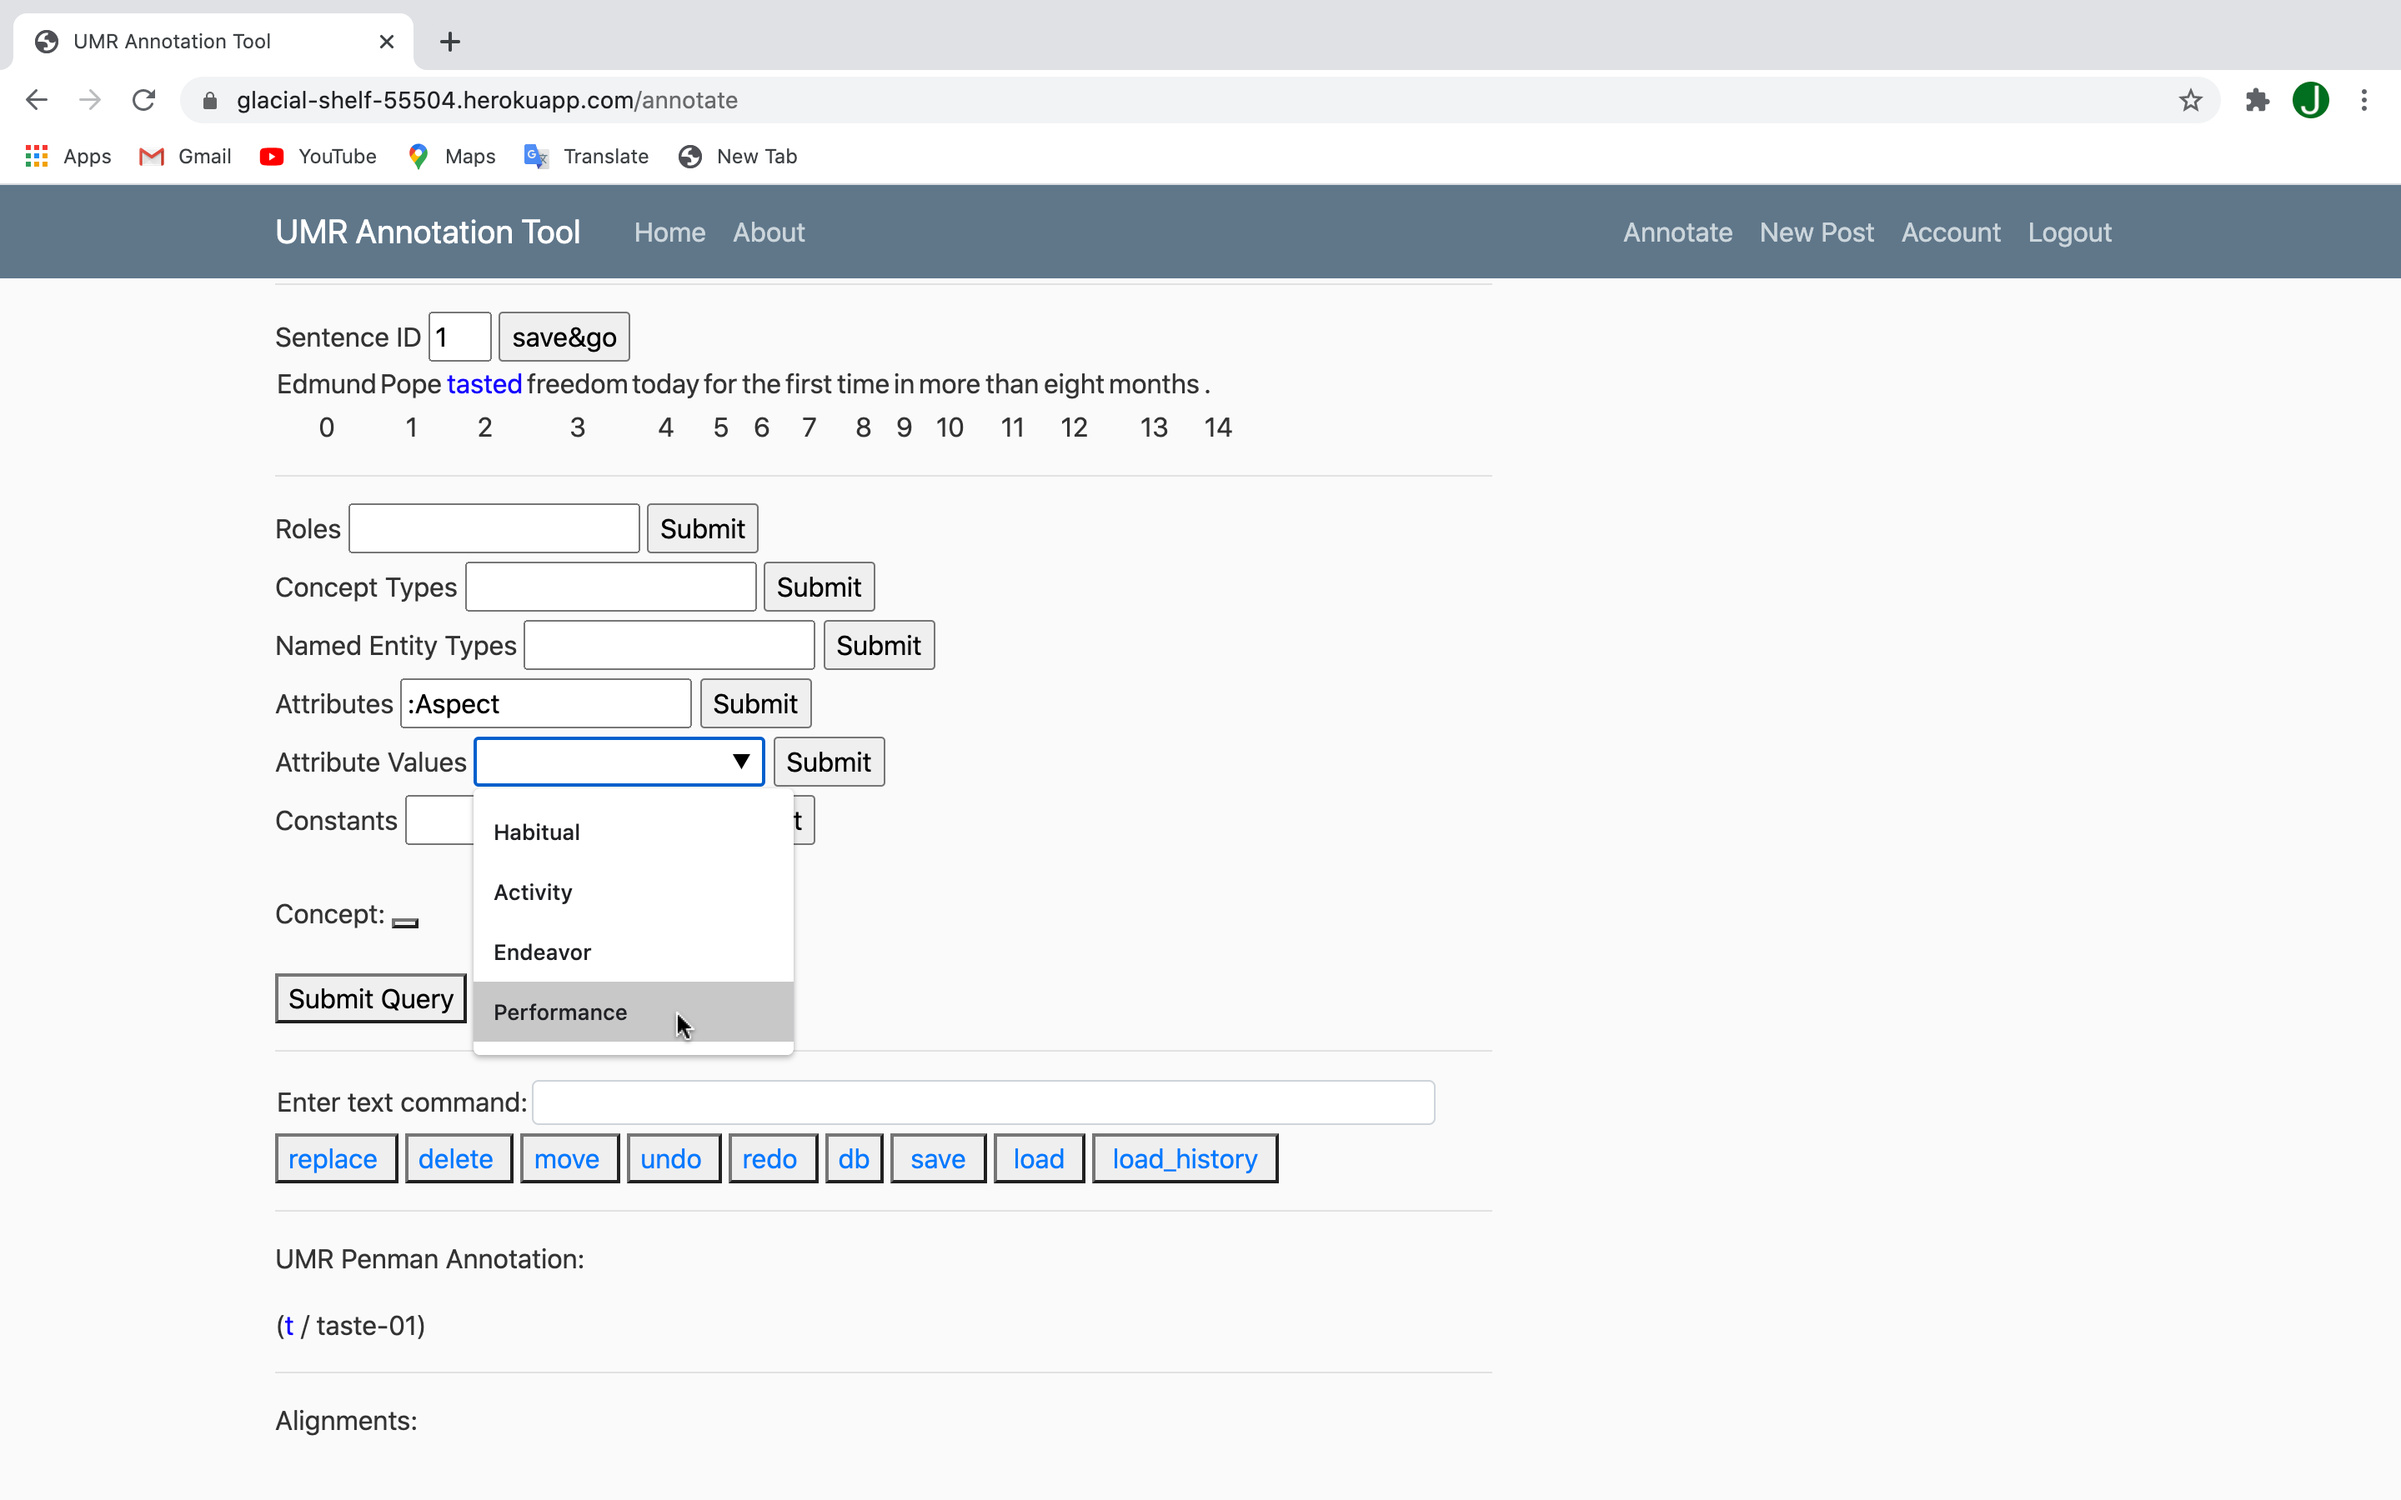
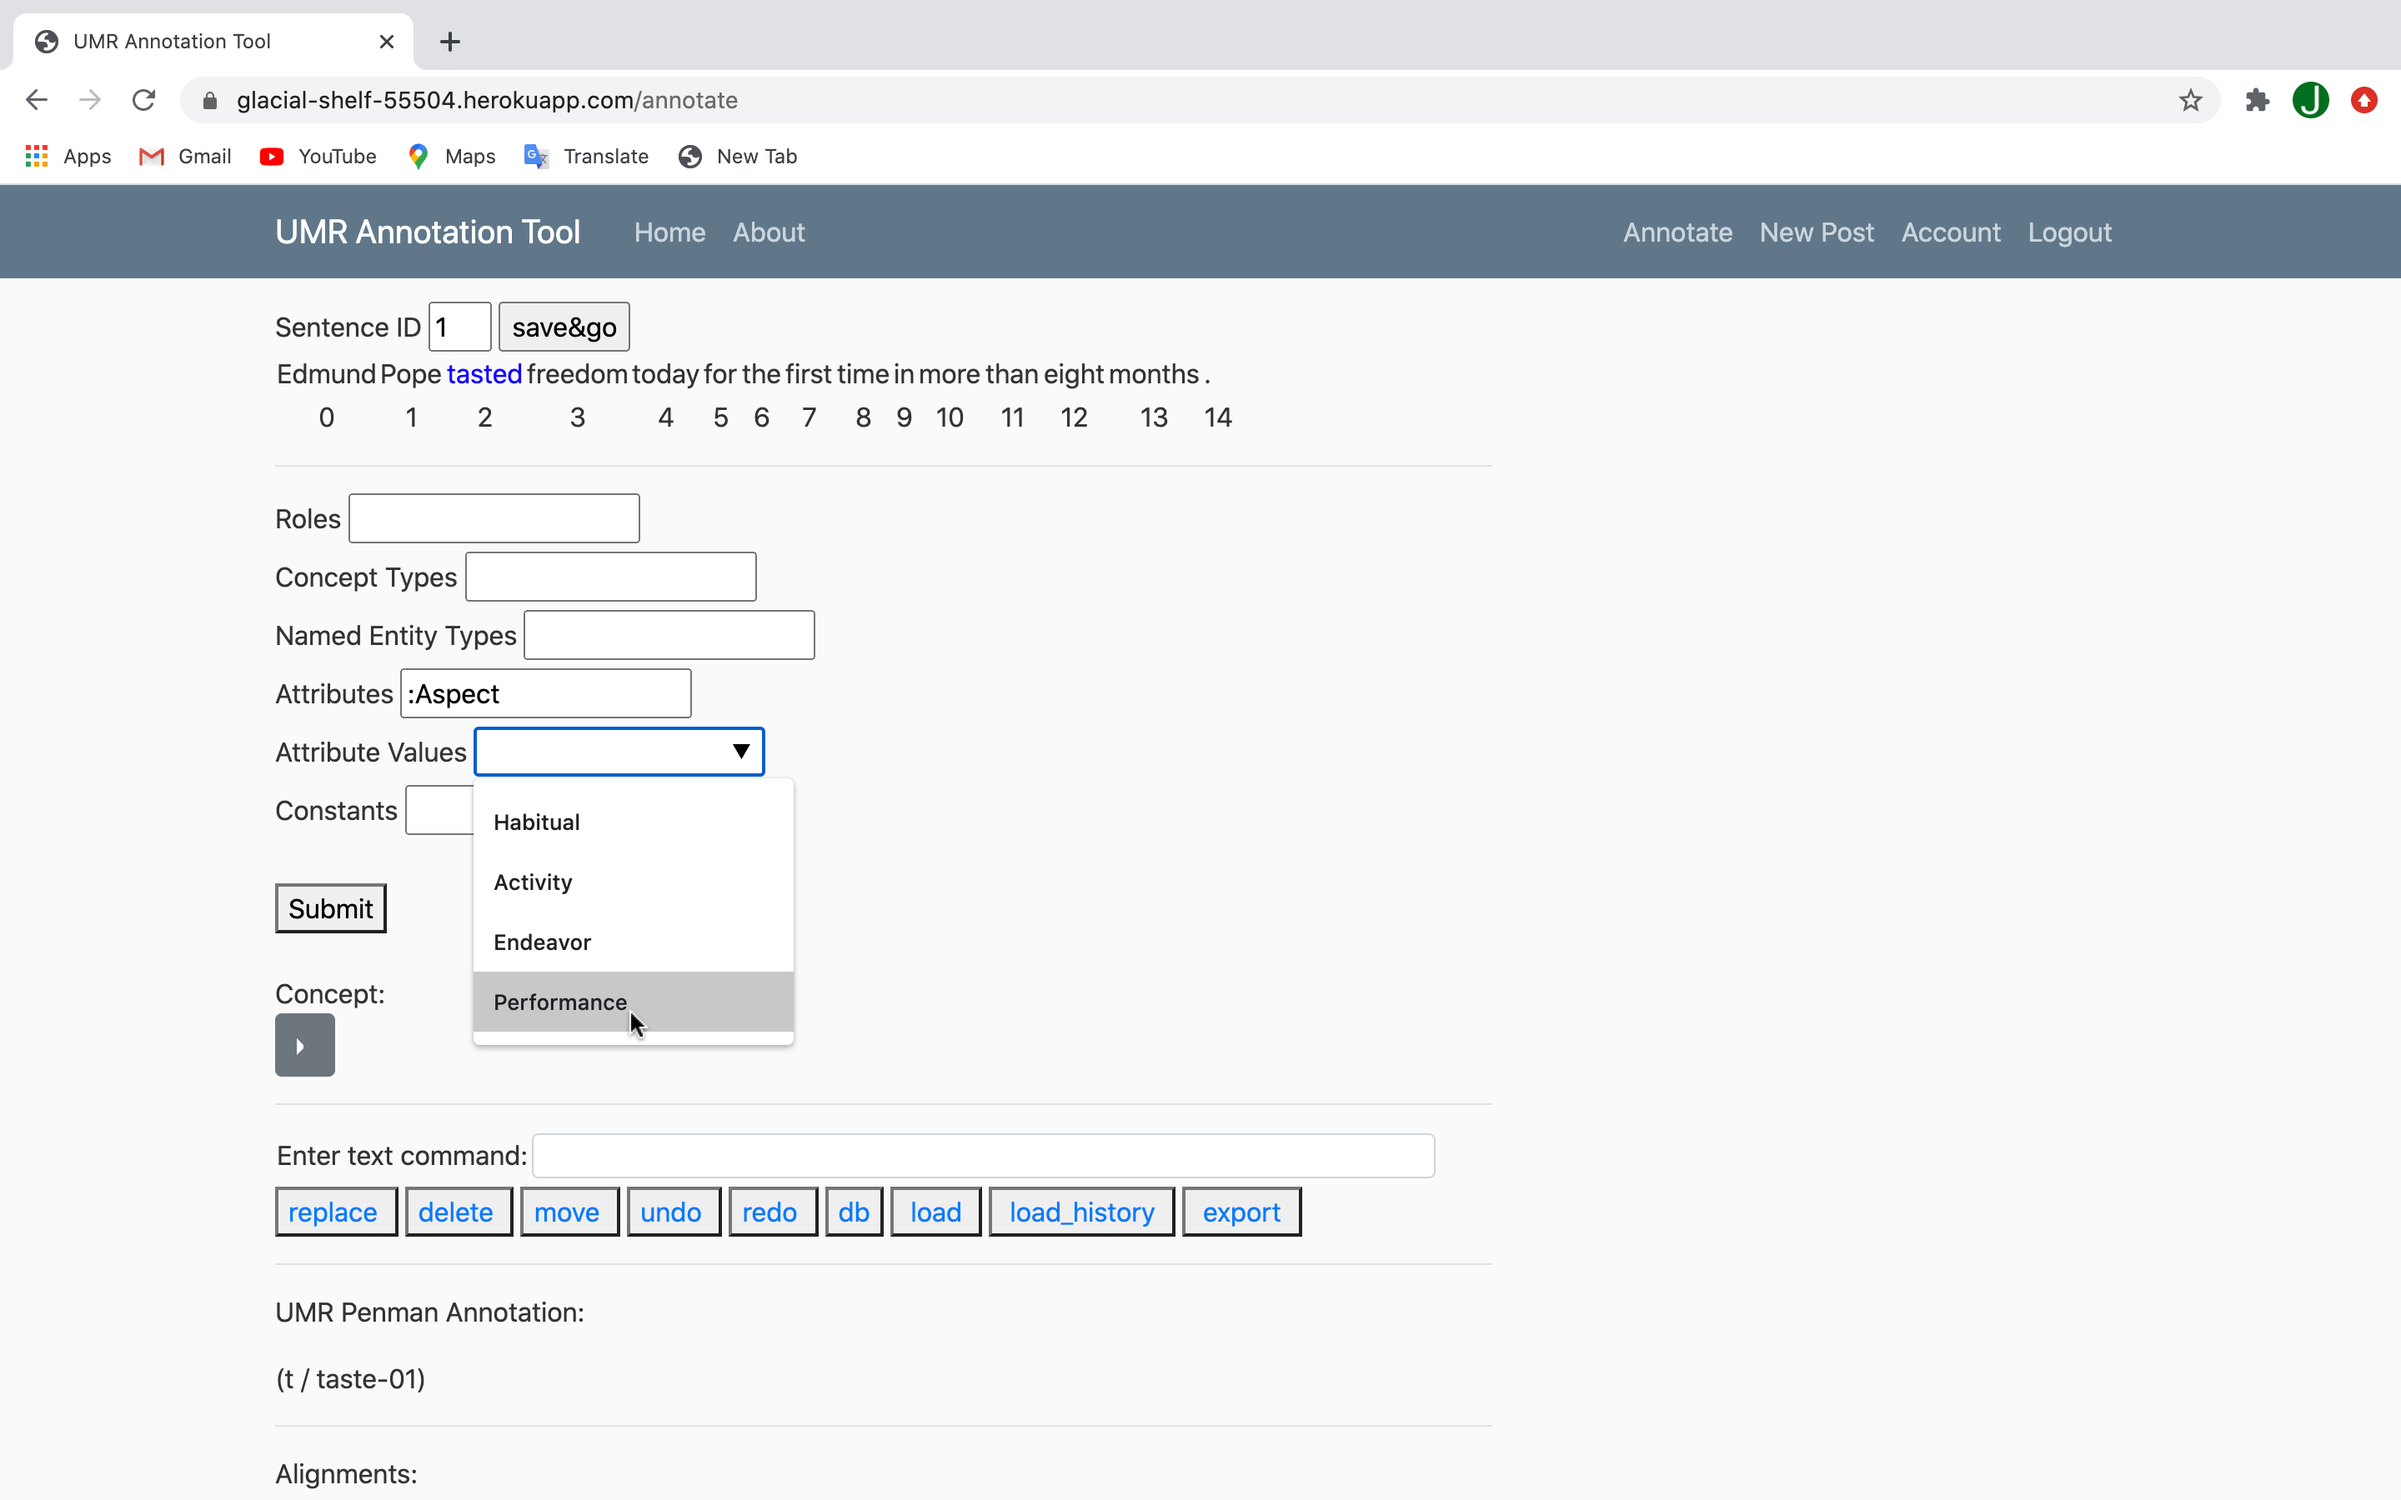
removed the last submit button on Attribute datalist

diff --git a/umr_annot_tool/templates/guidelines.html b/umr_annot_tool/templates/guidelines.html
@@ -9,7 +9,7 @@
     <img src="../static/guidelines_pics/login.png" alt="login" width="750" height="450">
     <p>After logging in, click annotate on Nav bar:</p>
     <img src="../static/guidelines_pics/homepage_after_login.png" alt="homepage_after_login" width="750" height="450">
-    <p>Choose a txt file, flex format xml or tool box format xml, choose a language, then click on both Submit and Annotate! buttons </p>
+    <p>Choose a txt file, flex format xml or tool box format xml, choose a language, then click on both Submit and Annotate! buttons (If you find yourself stuck on this page, and nothing happened after you click on Annotate! button, chances are slow network speed, click on Annotate button again)</p>
     <img src="../static/guidelines_pics/upload.png" alt="upload" width="750" height="450">
     <p>At the following annotation page, you can select "tasted" in the sentence by double clicking or click and drag. Then there is a button appears after Concept: click the "tasted" button. </p>
     <img src="../static/guidelines_pics/select.png" alt="select" width="750" height="450">
@@ -19,9 +19,9 @@
     <img src="../static/guidelines_pics/annot_1.png" alt="annot_1" width="750" height="450">
     <p>Technically the first concept you annotate will be assumed to be the head, but you can set head by select the variable name, and click on set head submenu: </p>
     <img src="../static/guidelines_pics/set_head.png" alt="set_head" width="750" height="450">
-    <p>Add Aspect attribute as following, it's very important you click on submit button every time you choose an option: </p>
+    <p>Add Aspect attribute as following</p>
     <img src="../static/guidelines_pics/attribute.png" alt="attribute" width="750" height="450">
-    <p>After submit :Aspect option, the attribute value box will appear, you can choose Performance in it, again, you should click on submit after selecting: </p>
+    <p>After select :Aspect option, the attribute value box will appear, you can choose Performance in it</p>
     <img src="../static/guidelines_pics/attribute_value.png" alt="annot_1" width="750" height="450">
     <p>The second line of annotation appears under UMR Penman Annotation:</p>
     <img src="../static/guidelines_pics/annot_2.png" alt="annot_2" width="750" height="450">
